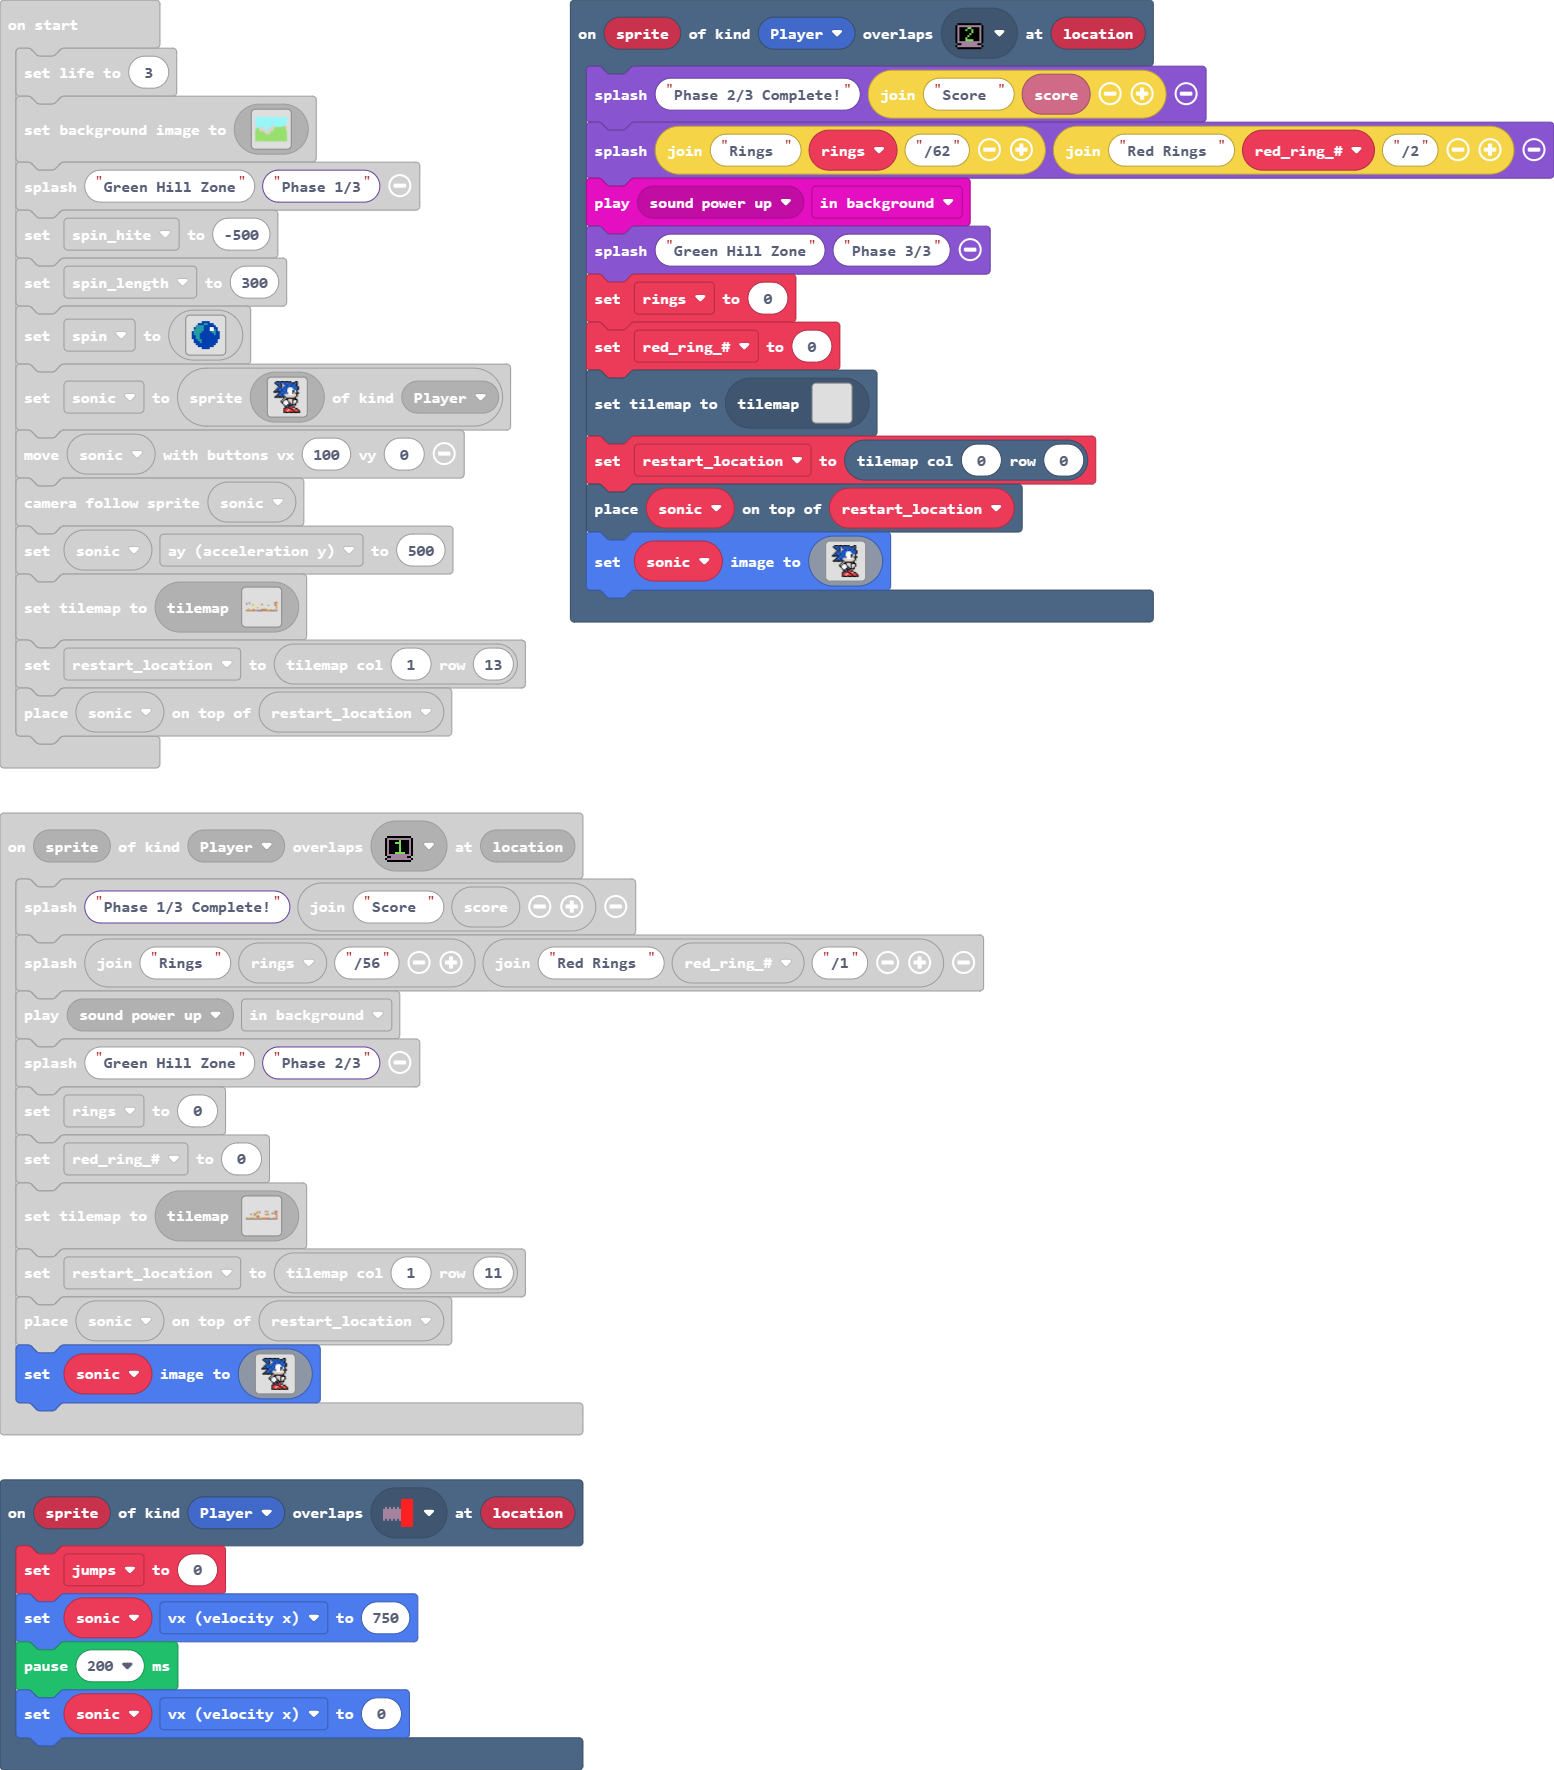
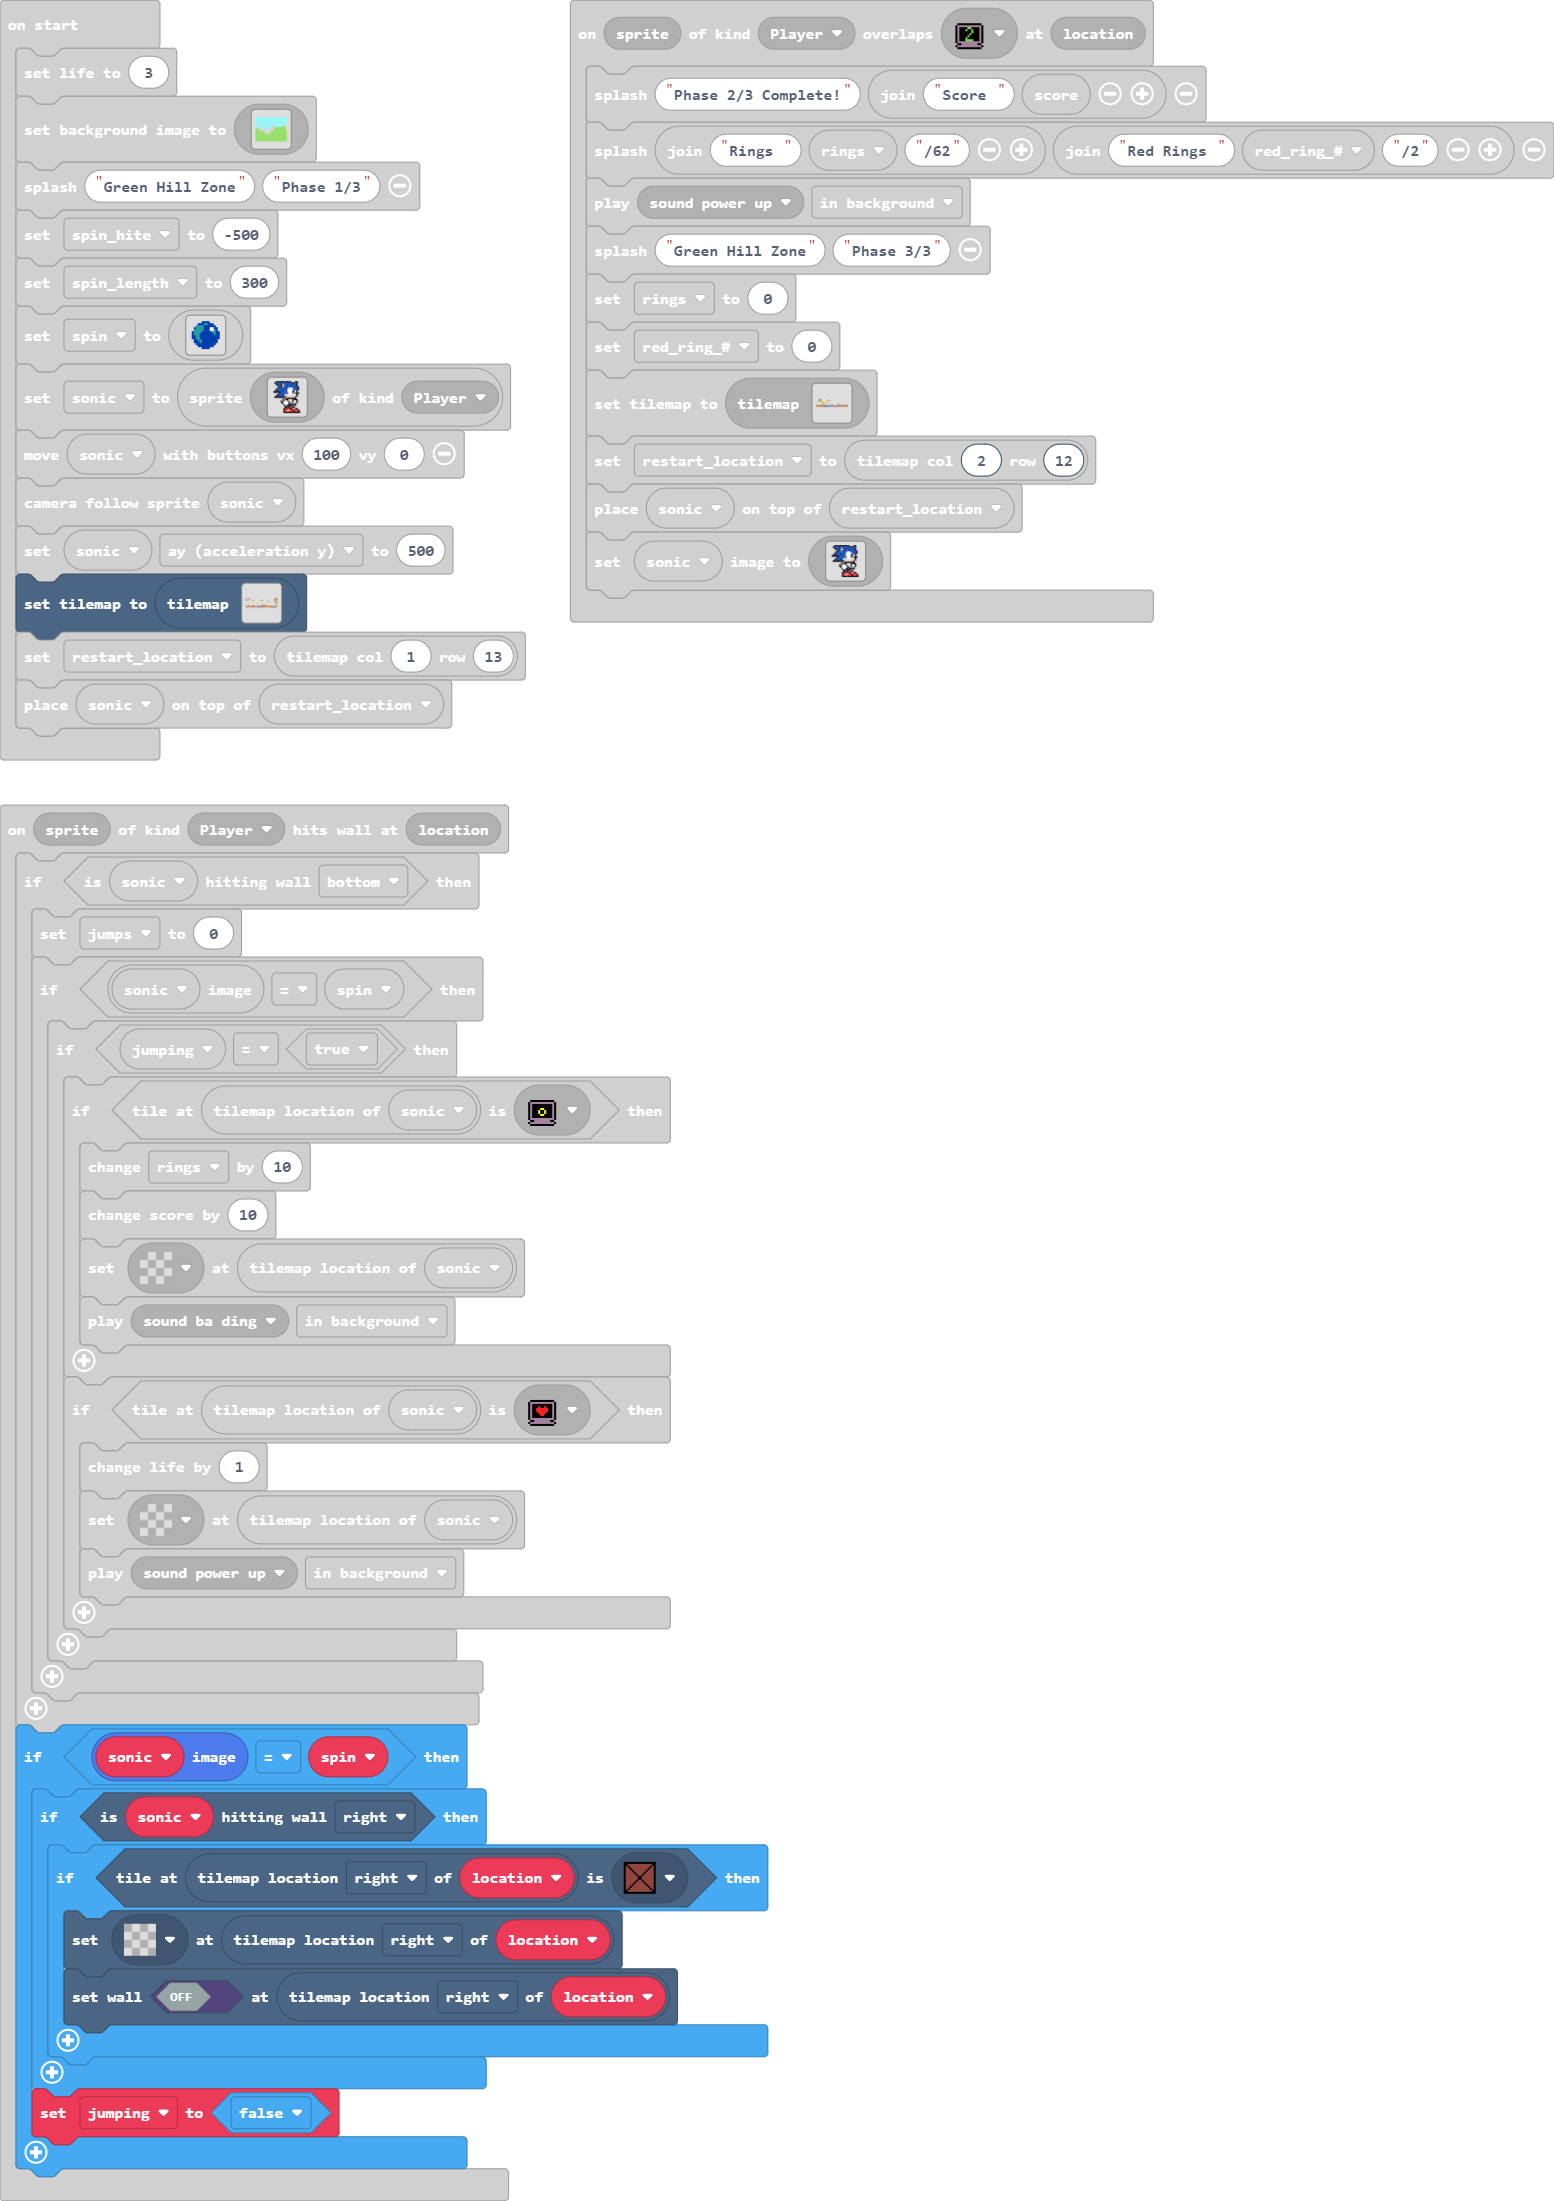
Update main.blocks, main.ts, tilemap.g.jres, tilemap.g.ts

diff --git a/tilemap.g.ts b/tilemap.g.ts
@@ -35,13 +35,15 @@ namespace myTiles {
     //% fixedInstance jres blockIdentity=images._tile
     export const tile15 = image.ofBuffer(hex``);
     //% fixedInstance jres blockIdentity=images._tile
-    export const tile18 = image.ofBuffer(hex``);
-    //% fixedInstance jres blockIdentity=images._tile
     export const tile19 = image.ofBuffer(hex``);
     //% fixedInstance jres blockIdentity=images._tile
     export const tile5 = image.ofBuffer(hex``);
     //% fixedInstance jres blockIdentity=images._tile
     export const tile20 = image.ofBuffer(hex``);
+    //% fixedInstance jres blockIdentity=images._tile
+    export const tile18 = image.ofBuffer(hex``);
+    //% fixedInstance jres blockIdentity=images._tile
+    export const tile21 = image.ofBuffer(hex``);
 
     helpers._registerFactory("tilemap", function(name: string) {
         switch(helpers.stringTrim(name)) {
@@ -83,47 +85,8 @@ namespace myTiles {
 . . . . . . . . . . . . . . . . 
 . . . . . . . . . . . . . . . . 
 `, [myTiles.transparency16], TileScale.Sixteen);
-            case "Green_Hill_Zone_Phase_1":
[1 lines of base64/hex data omitted]
-.......2..............................................222222
-.......2..............................................222222
-.......2..............................................222222
-222....2..............................................2.....
-.............................222......................2.....
-.............22.......................................22222.
-.........................................222..........22222.
-.........................................................22.
-.........................................................22.
-.........................................................22.
-.....................222.................................22.
-.........................................................22.
-.........................................................22.
-....222.......2..............2..22222..2....................
-.............2222.....222..2222222222222......222...222.....
-22222222222222222....22.2..2.22222222222222222222...222222..
-22222222222222222222222......2222222222222222222.....2222222
-`, [myTiles.transparency16,myTiles.tile1,myTiles.tile2,myTiles.tile3,myTiles.tile4,myTiles.tile5,myTiles.tile6,myTiles.tile7,myTiles.tile8,myTiles.tile9,myTiles.tile10,myTiles.tile12,myTiles.tile13,myTiles.tile14,myTiles.tile16,myTiles.tile15], TileScale.Sixteen);
             case "level6":
             case "level6":return tiles.createTilemap(hex`1000100000000000000000000000000000000000000000000000000000000000000000000000000000000000000000000000000000000000000000000000000000000000000000000000000000000000000000000000000000000000000000000000000000000000000000000000000000000000000000000000000000000000000000000000000000000000000000000000000000000000000000000000000000000000000000000000000000000000000000000000000000000000000000000000000000000000000000000000000000000000000000000000000000000000000000000000000000000000000000000000000000000000000000000000000000000000`, img`
-. . . . . . . . . . . . . . . . 
-. . . . . . . . . . . . . . . . 
-. . . . . . . . . . . . . . . . 
-. . . . . . . . . . . . . . . . 
-. . . . . . . . . . . . . . . . 
-. . . . . . . . . . . . . . . . 
-. . . . . . . . . . . . . . . . 
-. . . . . . . . . . . . . . . . 
-. . . . . . . . . . . . . . . . 
-. . . . . . . . . . . . . . . . 
-. . . . . . . . . . . . . . . . 
-. . . . . . . . . . . . . . . . 
-. . . . . . . . . . . . . . . . 
-. . . . . . . . . . . . . . . . 
-. . . . . . . . . . . . . . . . 
-. . . . . . . . . . . . . . . . 
-`, [myTiles.transparency16], TileScale.Sixteen);
-            case "level4":
-            case "level4":return tiles.createTilemap(hex`1000100000000000000000000000000000000000000000000000000000000000000000000000000000000000000000000000000000000000000000000000000000000000000000000000000000000000000000000000000000000000000000000000000000000000000000000000000000000000000000000000000000000000000000000000000000000000000000000000000000000000000000000000000000000000000000000000000000000000000000000000000000000000000000000000000000000000000000000000000000000000000000000000000000000000000000000000000000000000000000000000000000000000000000000000000000000000`, img`
 . . . . . . . . . . . . . . . . 
 . . . . . . . . . . . . . . . . 
 . . . . . . . . . . . . . . . . 
@@ -160,6 +123,64 @@ namespace myTiles {
 222......2222222.....2222.....22222222222222.2....2.22222222
 222......2222222.....2222.....22222222222222........22222222
 `, [myTiles.transparency16,myTiles.tile6,myTiles.tile8,myTiles.tile9,myTiles.tile5,myTiles.tile1,myTiles.tile4,myTiles.tile10,myTiles.tile13,myTiles.tile16,myTiles.tile14,myTiles.tile7,myTiles.tile12,myTiles.tile2,myTiles.tile17], TileScale.Sixteen);
+            case "level4":
[1 lines of base64/hex data omitted]
+............................................................
+............................................................
+.......2....................................................
+......2.222.................................................
+......2...............22222.................................
+.....2...22..........2......................................
+.....................2......................................
+.....................2......................................
+............2222............................................
+...............2...2........................................
+...............2............................................
+............................................................
+..........2.................................................
+222222222222222......2222222222222....2222222222222222222222
+222222222222222......2......222222....2222222222222222222222
+222222222222222......2......22222......222222222222222222222
+`, [myTiles.transparency16,myTiles.tile1,myTiles.tile2,myTiles.tile4,myTiles.tile6,myTiles.tile7,myTiles.tile8,myTiles.tile9,myTiles.tile10,myTiles.tile12,myTiles.tile13,myTiles.tile14,myTiles.tile16,myTiles.tile5,myTiles.tile21], TileScale.Sixteen);
+            case "level7":
+            case "level7":return tiles.createTilemap(hex`1000100000000000000000000000000000000000000000000000000000000000000000000000000000000000000000000000000000000000000000000000000000000000000000000000000000000000000000000000000000000000000000000000000000000000000000000000000000000000000000000000000000000000000000000000000000000000000000000000000000000000000000000000000000000000000000000000000000000000000000000000000000000000000000000000000000000000000000000000000000000000000000000000000000000000000000000000000000000000000000000000000000000000000000000000000000000000`, img`
+. . . . . . . . . . . . . . . . 
+. . . . . . . . . . . . . . . . 
+. . . . . . . . . . . . . . . . 
+. . . . . . . . . . . . . . . . 
+. . . . . . . . . . . . . . . . 
+. . . . . . . . . . . . . . . . 
+. . . . . . . . . . . . . . . . 
+. . . . . . . . . . . . . . . . 
+. . . . . . . . . . . . . . . . 
+. . . . . . . . . . . . . . . . 
+. . . . . . . . . . . . . . . . 
+. . . . . . . . . . . . . . . . 
+. . . . . . . . . . . . . . . . 
+. . . . . . . . . . . . . . . . 
+. . . . . . . . . . . . . . . . 
+. . . . . . . . . . . . . . . . 
+`, [myTiles.transparency16], TileScale.Sixteen);
+            case "Green_Hill_Zone_Phase_1":
[1 lines of base64/hex data omitted]
+.......2..............................................222222
+.......2..............................................222222
+.......2..............................................222222
+222....2..............................................2.....
+.............................222......................2.....
+.............22.......................................22222.
+.........................................222..........22222.
+.........................................................22.
+.........................................................22.
+.........................................................22.
+.....................222.................................22.
+.........................................................22.
+.........................................................22.
+....222.......2..............2..22222..2....................
+...........2.2222.....222..2222222222222......222...222.....
+22222222222222222....22.2..2.22222222222222222222...222222..
+22222222222222222222222......2222222222222222222.....2222222
+`, [myTiles.transparency16,myTiles.tile1,myTiles.tile2,myTiles.tile3,myTiles.tile4,myTiles.tile5,myTiles.tile6,myTiles.tile7,myTiles.tile8,myTiles.tile9,myTiles.tile10,myTiles.tile12,myTiles.tile13,myTiles.tile14,myTiles.tile16,myTiles.tile15,myTiles.tile21], TileScale.Sixteen);
         }
         return null;
     })
@@ -199,14 +220,16 @@ namespace myTiles {
             case "tile17":return tile17;
             case "myTile13":
             case "tile15":return tile15;
-            case "myTile16":
-            case "tile18":return tile18;
             case "myTile17":
             case "tile19":return tile19;
             case "myTile3":
             case "tile5":return tile5;
             case "myTile18":
             case "tile20":return tile20;
+            case "myTile16":
+            case "tile18":return tile18;
+            case "myTile19":
+            case "tile21":return tile21;
         }
         return null;
     })

diff --git a/main.ts b/main.ts
@@ -17,7 +17,15 @@ scene.onHitWall(SpriteKind.Player, function (sprite, location) {
             }
         }
     }
-    jumping = false
+    if (sonic.image == spin) {
+        if (sonic.isHittingTile(CollisionDirection.Right)) {
+            if (tiles.tileAtLocationEquals(location.getNeighboringLocation(CollisionDirection.Right), assets.tile`myTile19`)) {
+                tiles.setTileAt(location.getNeighboringLocation(CollisionDirection.Right), assets.tile`transparency16`)
+                tiles.setWallAt(location.getNeighboringLocation(CollisionDirection.Right), false)
+            }
+        }
+        jumping = false
+    }
 })
 controller.B.onEvent(ControllerButtonEvent.Pressed, function () {
     sonic.setImage(spin)
@@ -36,7 +44,7 @@ scene.onOverlapTile(SpriteKind.Player, assets.tile`myTile15`, function (sprite, 
     rings = 0
     red_ring_ = 0
     tiles.setCurrentTilemap(tilemap`level4`)
-    restart_location = tiles.getTileLocation(0, 0)
+    restart_location = tiles.getTileLocation(2, 12)
     tiles.placeOnTile(sonic, restart_location)
     sonic.setImage(assets.image`sonicR`)
 })
